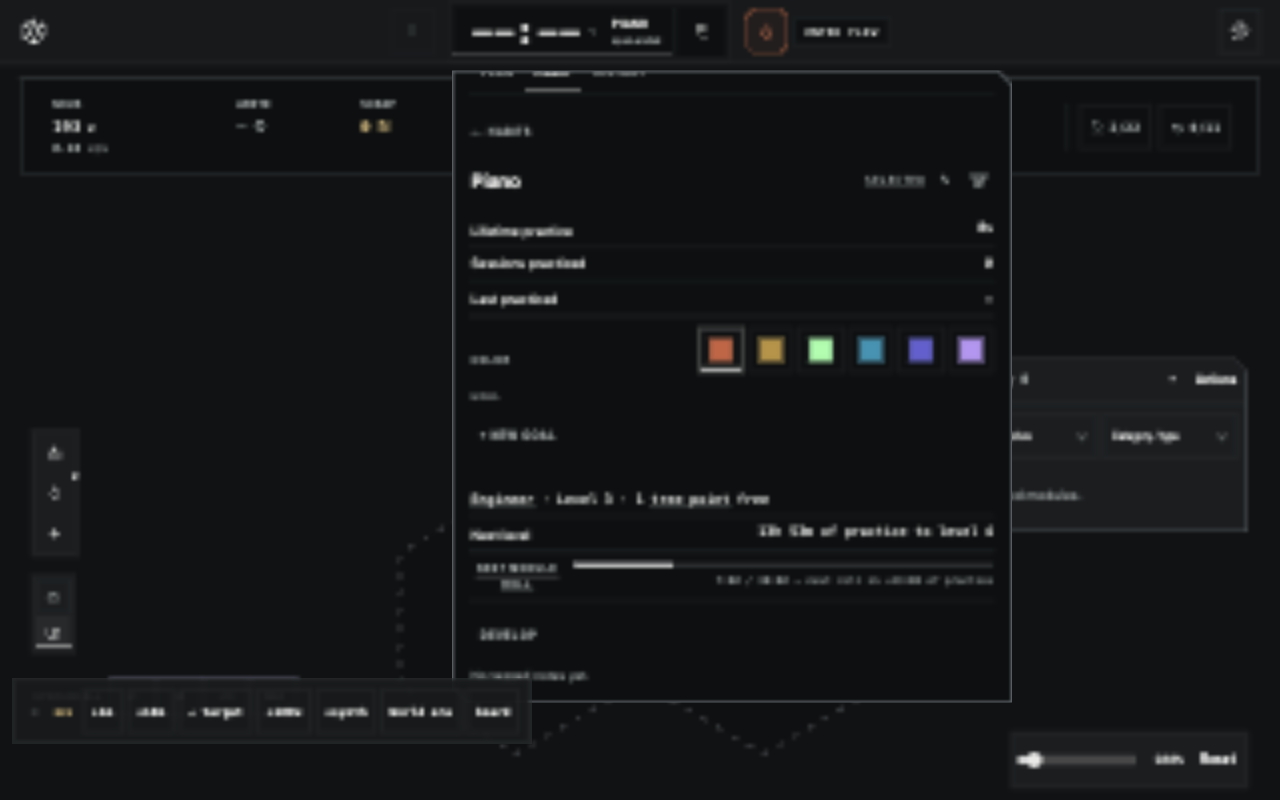
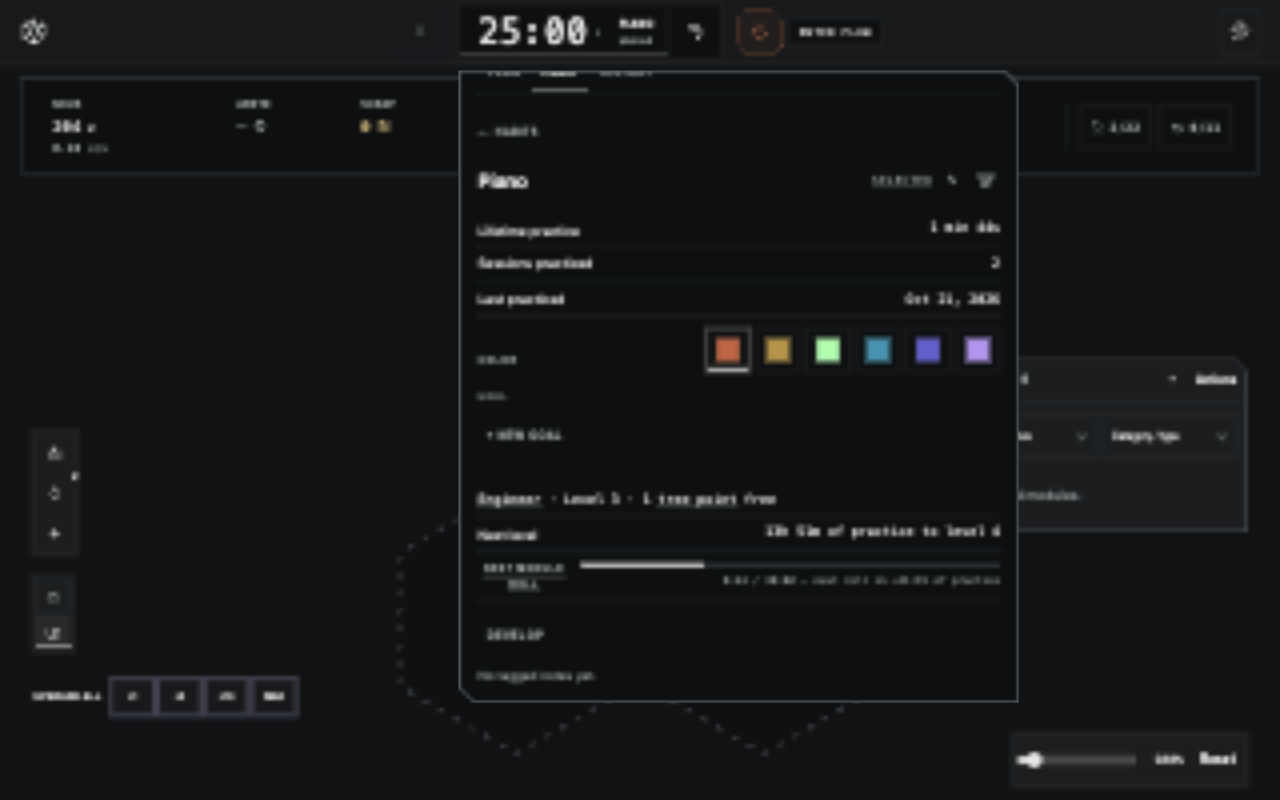
Recapture the issue-446 evidence against the committed checkout

diff --git a/docs/evidence/issue-446/README.md b/docs/evidence/issue-446/README.md
@@ -1,13 +1,13 @@
 # Compact class summary and Develop — issue #446 evidence
 
-Captured 2026-10-21 from the verified checkout (worktree `t3-725246a3`, branch `t3/issue-446`, commit `24db408` — the `/-/dev/provenance` endpoint matched `git rev-parse HEAD` at capture time; server `npm run dev`). The dev-localStorage save carried two Piano habits: one drilled to Engineer level 3 (one spent rank, meter part-filled, one credited session banked through the app's own flow switch), one left fresh — the fresh-pair edge state.
+Captured 2026-10-21 from the verified checkout (worktree `t3-725246a3`, branch `t3/issue-446`, commit `52745af` — the `/-/dev/provenance` endpoint matched `git rev-parse HEAD` at capture time, with the working tree clean; server `npm run dev`). The dev-localStorage save carried two Piano habits: one drilled to Engineer level 3 (one spent rank, meter part-filled, credited sessions banked through the app's own flow switch and report controls), one left fresh — the fresh-pair edge state.
 
 ## Desktop (1280×800)
 
-- **desktop-habit-detail-summary.png** — the drilled habit's development read: lifetime/sessions/last-practiced, color, goal section, then the compact class summary — `Engineer · Level 3 · 1 tree point free`, `Next level — 13h 58m of practice to level 4`, and `NEXT MODULE ROLL` with its track and `7:00 / 30:00 — next roll in ~23:00 of practice` line — with the one DEVELOP action beneath. No tree, build, or duplicated figures on this surface.
-- **desktop-develop-tree.png** — the Develop view the action opens: `← SUMMARY` back, the TREE rows (Governor fully ranked, Reed half-ranked with its allocate button, Punch card locked naming `unlocks at class level 5`), `3 spent · respec is free`, and the respec/preset row. No level, point, XP, or roll figures stand anywhere in the view — the summary owns the advancement read.
-- **desktop-tooltip-keyboard.png** — the Reed term trigger opened by keyboard focus (not hover), its gloss floating in the plain tooltip layer.
-- **desktop-flow-live-read.png** — the running session's HABIT face: active habit with the locked-selection note, the live session clock, and the same compact summary live beneath — countdown and meter moving with credited practice, no Develop action, no class controls. The visible DEV overlay strip is the `?dev` launcher's own furniture, absent from ordinary boots.
+- **desktop-habit-detail-summary.png** — the drilled habit's development read: lifetime/sessions/last-practiced, color, goal section, then the compact class summary — `Engineer · Level 3 · 1 tree point free`, `Next level — 13h 51m of practice to level 4`, and `NEXT MODULE ROLL` with its track and `8:22 / 30:00 — next roll in ~21:37 of practice` line — with the one DEVELOP action beneath. No tree, build, or duplicated figures on this surface.
+- **desktop-develop-tree.png** — the Develop view the action opens: `← SUMMARY` back, the TREE rows (Governor fully ranked, Reed half-ranked with its allocate button, Punch card locked naming `unlocks at class level 5`), `1 spent · respec is free`, and the respec/preset row. No level, point, XP, or roll figures stand anywhere in the view — the summary owns the advancement read.
+- **desktop-tooltip-keyboard.png** — the Develop view with the Reed term trigger opened by keyboard focus (not hover), its gloss floating in the plain tooltip layer.
+- **desktop-flow-live-read.png** — the running session's HABIT face: active habit with the locked-selection note, the live session clock, and the same compact summary live beneath — countdown and meter moving with credited practice, no Develop action, no class controls.
 
 ## Phone (390×844, `window.innerWidth` 390 confirmed)
 
@@ -20,7 +20,7 @@ Captured 2026-10-21 from the verified checkout (worktree `t3-725246a3`, branch `
 
 - Keyboard: the DEVELOP and `← SUMMARY` controls are buttons reachable by Tab; the term triggers disclose on `focusin` (captured in desktop-tooltip-keyboard.png) with `aria-expanded` reporting the open state, and Escape/focus-out dismisses. The summary's `Next module roll` trigger opens the gloss `Practice-earned, separate from class XP and board charge` — the XP/roll distinction in the tooltip layer.
 - Touch: the DEVELOP journey was driven by pointer taps at 390px; tree allocate buttons keep the 44px touch lane; no horizontal overflow at any captured width.
-- Live updates: with the sheet held open during a running session, the countdown stepped `13h 58m → 13h 53m → 13h 52m` and the meter line moved `7:00 → 7:43` while the same DOM nodes persisted (in-place patches, no structural rerender); a level threshold crossing rebuilds the summary with the new level and re-based track.
+- Live updates: with the sheet held open during a running session, the countdown and meter line stepped in place while the same DOM nodes persisted (in-place patches, no structural rerender); a level threshold crossing rebuilds the summary with the new level and re-based track. Covered in tests by the same-node assertions in `src/ui/focus.test.ts`.
 - Non-color state: selection wears the state grammar's marks (SELECTED word, firm inset markers), ranks read as `+1/2` figures with the equipped border, the locked rung is the muted `·` mark with its level named in text, and completion's check stays on the header — no state is color-only.
 - Reduced motion: **unavailable as an emulated check** — the host exposes no `prefers-reduced-motion` emulation surface. The diff adds no animation or transition: the changed surfaces are static rows, and the meter fill is an instant width write (no transition rule on `.class-meter-track i`).
 - Unavailable checks: none beyond reduced motion. Both viewports captured, disclosure exercised by keyboard and touch, and the flow lock verified with the sheet open during a running session.
